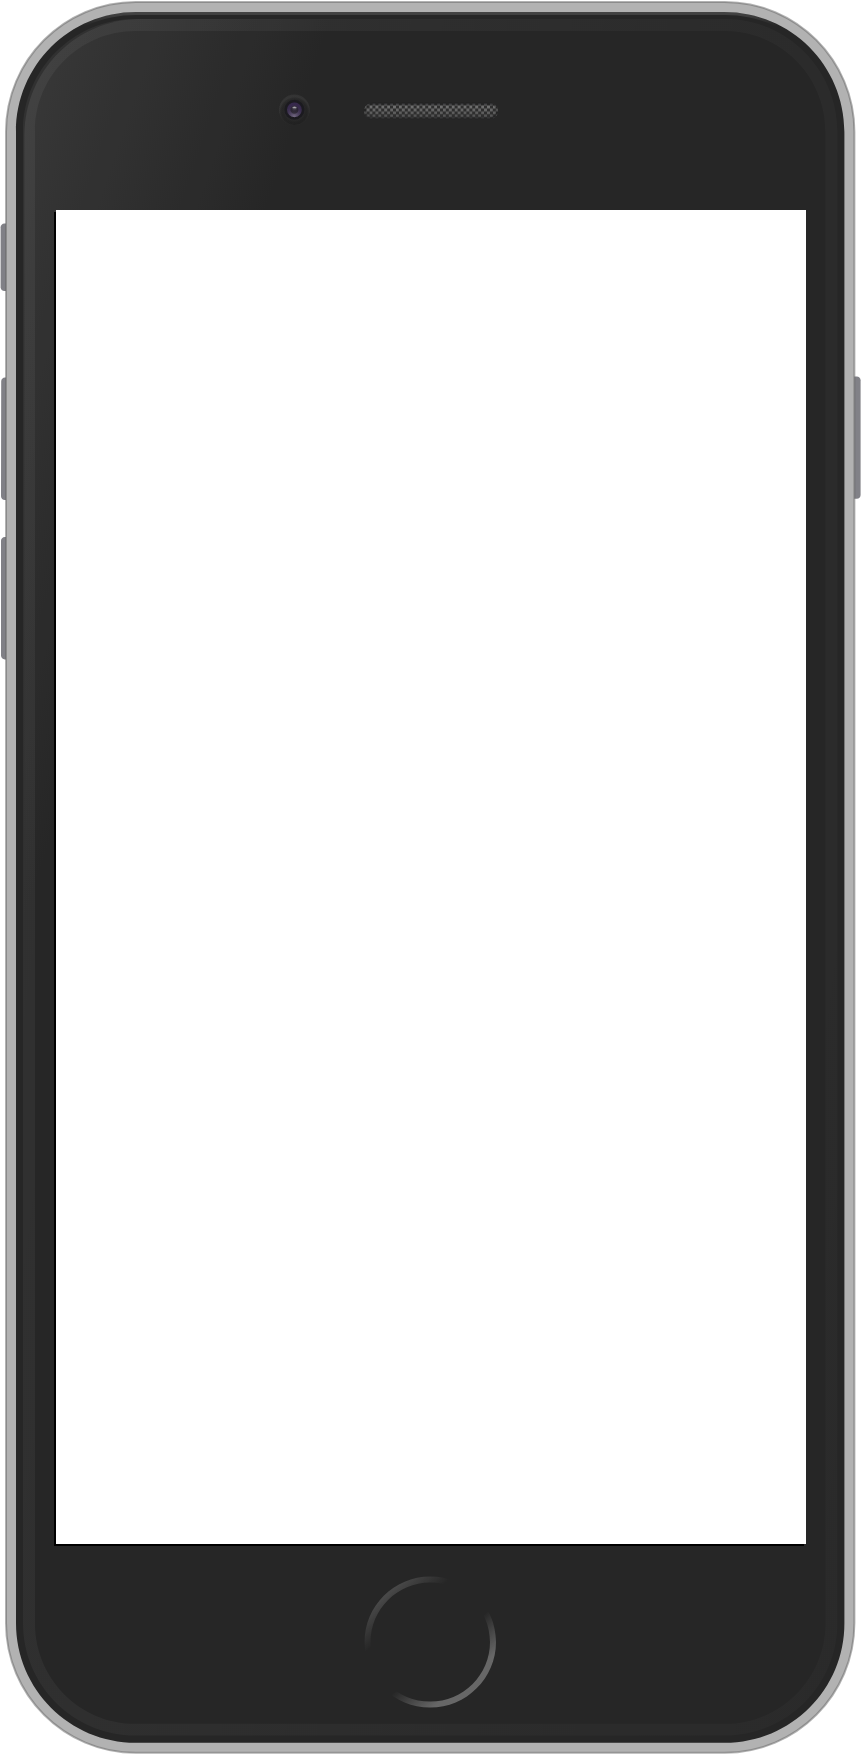
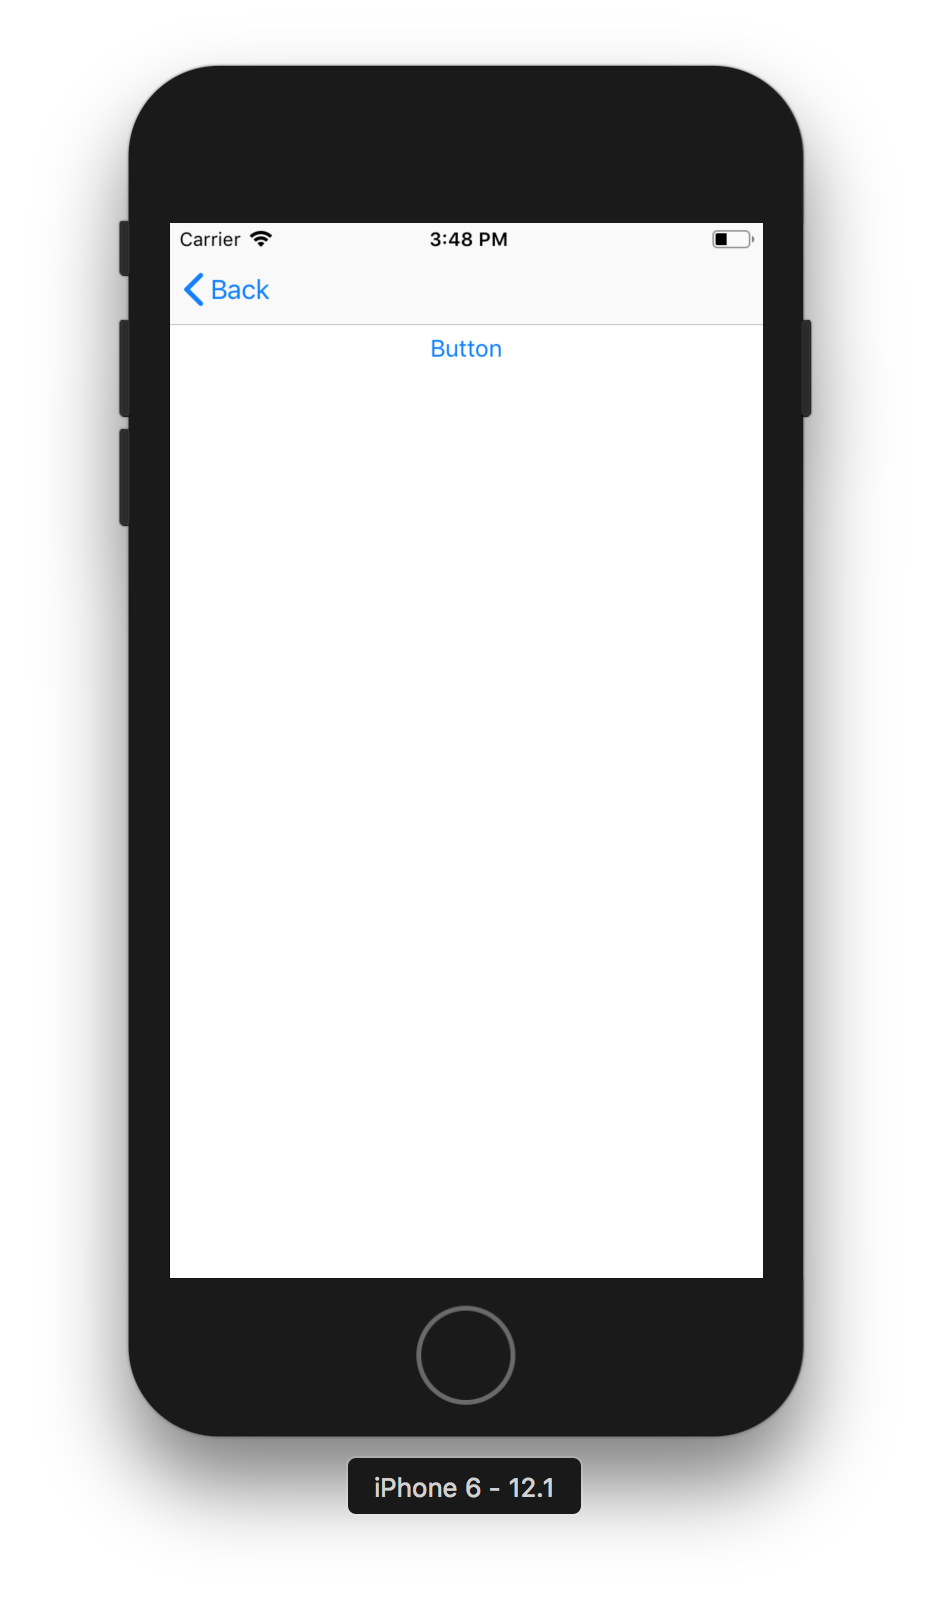
Add ios screenshots

diff --git a/src/app/ui-components/comparison/comparison.component.scss b/src/app/ui-components/comparison/comparison.component.scss
@@ -84,11 +84,11 @@ div.screenshot {
     &:hover {
         background-size: initial;
         background-position-x: center;
-        background-position-y: -150px;
+        background-position-y: -140px;
         // border: 1px solid red;
     }
 
-    &.toggle:hover {
+    &.android.toggle:hover {
         background-position-x: right;
     }
     
@@ -97,9 +97,18 @@ div.screenshot {
     }
 
     &.ios {
+        background-size: 320px;
+        background-position-y: -20px;
+        
+        &:hover {
+            background-size: 550px;
+            background-position-y: -120px;
+        }
+
         &.button { background-image: url('/assets/screenshots/ios_button.png'); }
         &.toggle { background-image: url('/assets/screenshots/ios_toggle.png'); }
         &.datepicker { background-image: url('/assets/screenshots/ios_datepicker.png'); }
+
     }
 
     &.android {
